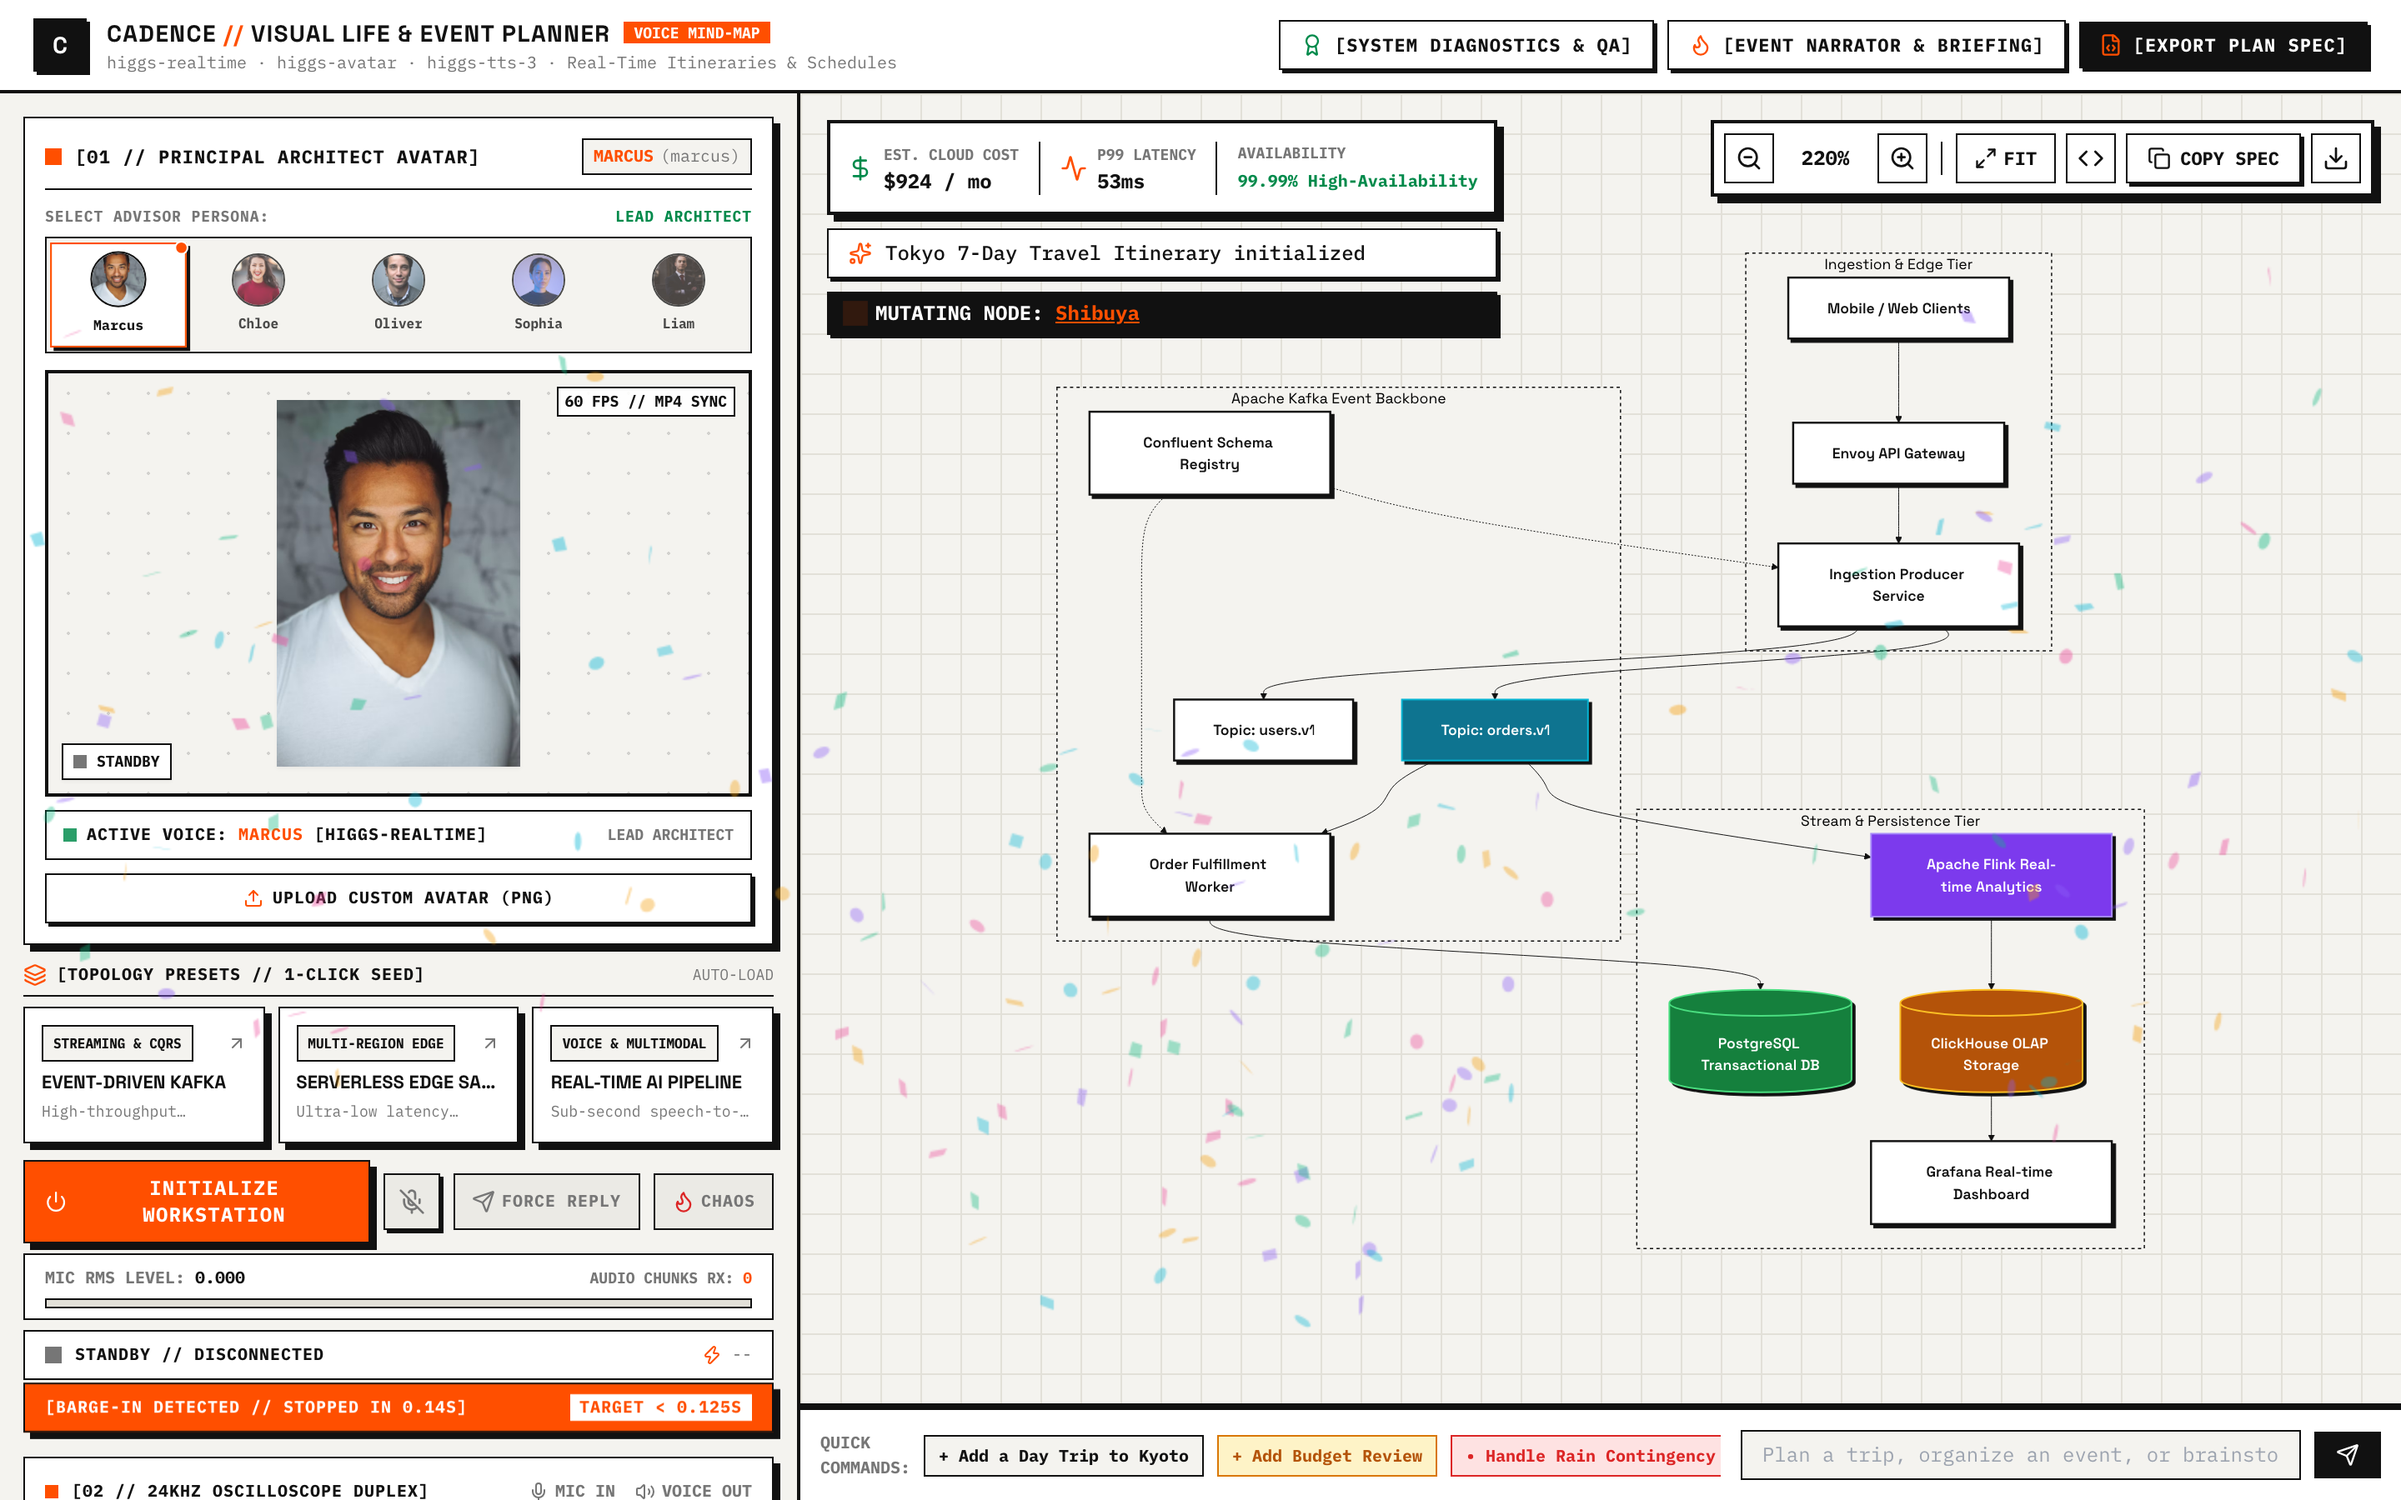
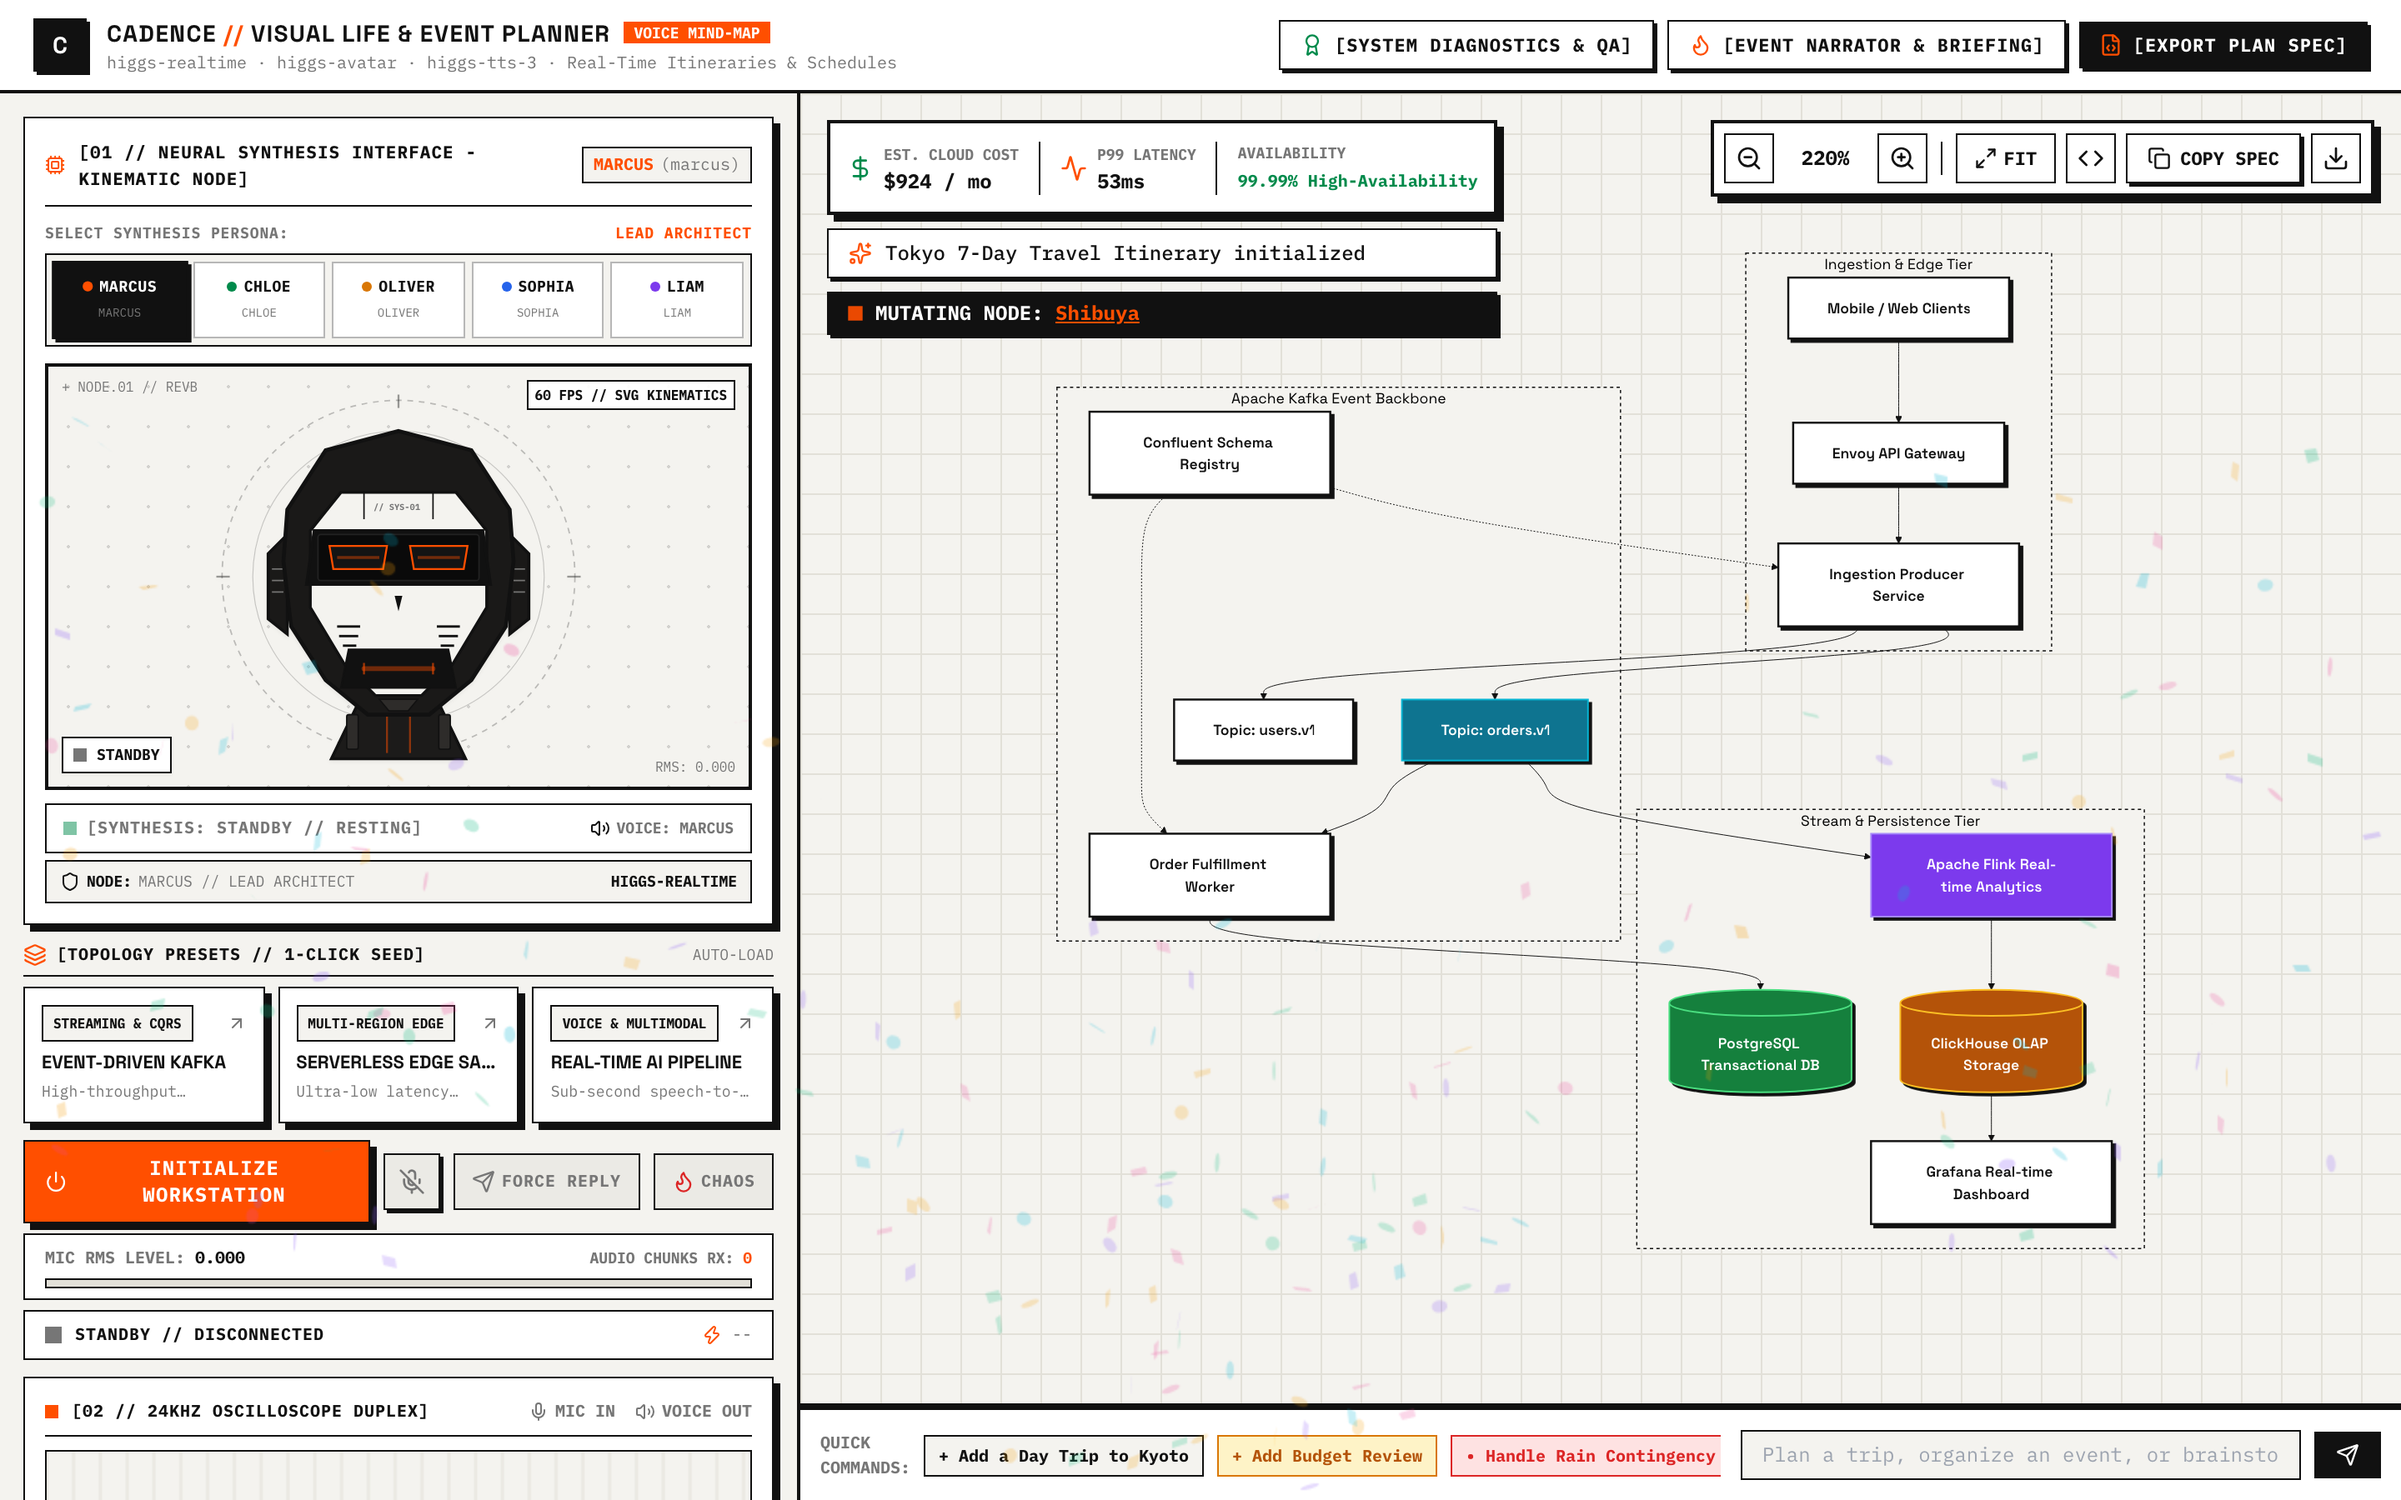
docs: feature live Azure deployment link and refresh retina screenshots with vector cybernetic robot face

diff --git a/README.md b/README.md
@@ -2,16 +2,32 @@
 
 # CADENCE
 ### Autonomous Real-Time Voice Life & Event Planner
+**Full-Duplex 24kHz Audio &bull; Vector Cybernetic Kinematics &bull; Dynamic Vector CAD Mind-Maps**
+
+<br />
+
+<p align="center">
+  <a href="https://cadence-ai.azurewebsites.net" target="_blank">
+    <img src="https://img.shields.io/badge/LIVE%20WORKSTATION-cadence--ai.azurewebsites.net-FF4F00?style=for-the-badge&logo=microsoftazure&logoColor=white" alt="Live Workstation on Azure" height="38" />
+  </a>
+</p>
+
+<p align="center">
+  <strong>🌐 Production Deployment:</strong> <a href="https://cadence-ai.azurewebsites.net">https://cadence-ai.azurewebsites.net</a>
+  &nbsp;&bull;&nbsp;
+  <strong>⚡ Instant Shortlink:</strong> <a href="https://tinyurl.com/2dxcecgo">https://tinyurl.com/2dxcecgo</a>
+</p>
 
 [![Build & Test](https://github.com/PeterYousefi/Cadence/actions/workflows/ci.yml/badge.svg)](https://github.com/PeterYousefi/Cadence/actions)
 [![License: MIT](https://img.shields.io/badge/License-MIT-yellow.svg)](https://opensource.org/licenses/MIT)
 [![TypeScript](https://img.shields.io/badge/TypeScript-5.7-blue.svg)](https://www.typescriptlang.org/)
-[![Node.js](https://img.shields.io/badge/Node.js-%3E%3D18.0.0-green.svg)](https://nodejs.org/)
+[![Node.js](https://img.shields.io/badge/Node.js-%3E%3D20.0.0-green.svg)](https://nodejs.org/)
 [![Audio DSP](https://img.shields.io/badge/Audio%20DSP-24kHz%20PCM16-FF4F00.svg)](#audio-pipeline)
-[![Multi-Model](https://img.shields.io/badge/Boson%20AI-Realtime%20%2B%20Avatar%20%2B%20TTS%203-008A4B.svg)](https://boson.ai)
+[![Multi-Model](https://img.shields.io/badge/Boson%20AI-Realtime%20%2B%20Kinematic%20%2B%20TTS%203-008A4B.svg)](https://boson.ai)
+[![Azure Cloud](https://img.shields.io/badge/Hosted%20on-Azure%20App%20Service%20(Linux)-0078D4.svg)](https://azure.microsoft.com/)
 
 <p align="center">
-  <strong>Cadence</strong> pairs Boson AI's multi-model suite with a reactive, Swiss CAD visual mind-mapping canvas. Speak naturally in any language to plan dream vacations, coordinate weddings, build startup roadmaps, or brainstorm life goals with instant visual timelines and sub-second full-duplex voice.
+  <strong>Cadence</strong> combines Boson AI's real-time multimodal intelligence with a precision Swiss CAD drafting deck. Speak naturally in 100+ languages to plan dream vacations, coordinate weddings, build startup roadmaps, or evaluate life milestones with sub-second full-duplex voice, 0.125s barge-in interruption, dynamic vector mind-maps, and an audio-reactive 60 FPS cybernetic robot face.
 </p>
 
 </div>
@@ -28,12 +44,32 @@
 
 The Cadence workstation is engineered with a **Teenage Engineering × Swiss Industrial Drafting** aesthetic—combining warm alabaster paper tones (`#F4F3EF`), exposed 24px structural blueprint grids (`#E2E0D8`), international signal accents (`#FF4F00` and `#008A4B`), and mechanical tactile controls with physical drop-shadows:
 
-* **Left 35% // Telemetry Rail:** Houses the 5-Avatar Persona Selector (Chloe, Marcus, Oliver, Emma, Liam) with live talking-head video viewport, dual 24kHz mic/speaker oscilloscopes, live numeric microphone RMS meter, 0.125s barge-in timeline beacon, real-time Boson vs. OpenAI unit economics ticker, and the syntax-highlighted live transcript and tool stream.
+* **Left 35% // Telemetry Rail:** Houses the **Neural Synthesis Interface** (Vector Cybernetic Robot Face with real-time kinematic mouth morphing and audio-frequency lip-sync), dual 24kHz mic/speaker oscilloscopes, live numeric microphone RMS meter, 0.125s barge-in timeline beacon, real-time Boson vs. OpenAI unit economics ticker, and the syntax-highlighted live transcript and tool stream.
 * **Right 65% // Visual Mind-Map Canvas:** Full-height, reactive vector CAD viewport pre-calibrated to a **220% default zoom** scale focused on central milestones, rendering vibrant pastel flowchart mind-maps with smooth pan/zoom controls, contingency simulations, and a direct text/voice command bar.
 
 ---
 
-## ⚡ Key Capabilities
+## 🤖 Neural Synthesis Interface — Vector Cybernetic Face
+
+<div align="center">
+  <img src="docs/images/cadence-cybernetic-face.png" alt="Cadence Neural Synthesis Interface - Kinematic Node" width="60%" style="border: 2px solid #111111; box-shadow: 4px 4px 0px #111111;" />
+</div>
+
+<br />
+
+The avatar viewport features an interactive **Vector Cybernetic Robot Face** with hardware-level telemetry:
+- **Chiseled Carbon & Alabaster Geometry:** High-contrast carbon black (`#111111`) chassis with warm alabaster faceplate, acoustic cheek grills, lateral telemetry fins, and hydraulic collar pistons.
+- **Glowing Ocular Visor:** Active audio scanlines and dual ocular frequency equalizer bars that shift colors to match the active persona:
+  - `[MARCUS // ARCHITECT]` — Signal Orange (`#FF4F00`)
+  - `[CHLOE // UX]` — Emerald Green (`#008A4B`)
+  - `[OLIVER // BACKEND]` — Industrial Amber (`#D97706`)
+  - `[SOPHIA // DATA]` — Cobalt Blue (`#2563EB`)
+  - `[LIAM // DEVOPS]` — Deep Violet (`#7C3AED`)
+- **Real-Time Kinematic Lip-Sync:** Connected directly to the browser `AudioContext` analyser node. When Boson AI speaks, the SVG vector mouth dynamically curves and oscillates into speech apertures with internal neon vocal blades that jump in response to live FFT voice frequency bins. Returns smoothly to a resting 2px slit when silent.
+
+---
+
+## ⚡ Core Capabilities
 
 ### 1. Sub-Second Full-Duplex Voice & 0.125s Barge-In
 - **24kHz Signed 16-bit PCM Pipeline:** Bidirectional audio streaming over a direct browser WebSocket into `wss://api.boson.ai/v1/realtime`.
@@ -41,10 +77,10 @@ The Cadence workstation is engineered with a **Teenage Engineering × Swiss Indu
 - **100+ Language Zero-Flag Code-Switching:** Natively switch mid-sentence across English, Mandarin, Spanish, French, Japanese, German, Hindi, and Arabic without session restarts.
 - **Unit Economics Engine:** Live tracking of session audio costs at Boson's pricing ($0.0023/min input, $0.014/min output), delivering an **88–92% cost reduction** compared to legacy realtime speech APIs.
 
-### 2. Conversational Architecture & Mid-Turn Tool Calling
-When analyzing or altering system designs, Cadence calls native tools mid-conversation:
-- `render_architecture`: Generates or patches valid Mermaid.js graph topologies, illuminates active nodes in Signal Orange (`#FF4F00`), and computes capacity metrics.
-- `inject_chaos_failure`: Injects infrastructure partition, latency spikes, or crashes; recalculates downstream blast radius; and styles severed edges in crimson dashed strokes.
+### 2. Conversational Mind-Mapping & Mid-Turn Tool Calling
+When analyzing or altering plans, Cadence calls native tools mid-conversation:
+- `render_mindmap` / `render_architecture`: Generates or patches valid Mermaid.js graph topologies, illuminates active milestones in Signal Orange (`#FF4F00`), and recalibrates the canvas.
+- `inject_chaos_failure`: Injects real-world contingencies (e.g. rain contingency on wedding day, missed flight connection, cache partition) and styles severed edges in dashed crimson strokes.
 - `generate_iac_manifest`: Synthesizes production-ready Terraform HCL and Docker Compose definitions for immediate provisioning.
 
 ---
@@ -56,8 +92,8 @@ Cadence orchestrates three distinct Boson AI models into a unified engineering w
 | Model | Role | Integration Point |
 |---|---|---|
 | **Higgs Realtime** (`higgs-realtime`) | Full-duplex conversational reasoning, STT, and sub-second tool execution | Direct browser WebSocket (`/v1/realtime`) |
-| **Higgs Avatar** (`higgs-avatar`) | Principal Architect talking-head persona with zero-shot custom portrait upload | Streaming video session & 60fps Web Audio lip-sync |
-| **Higgs TTS 3** (`higgs-tts-3`) | Expressive post-mortem narrator with inline emotion and sound effect tags | Synced word-level microsecond teleprompter |
+| **Higgs Kinematics** (`higgs-avatar`) | Neural Synthesis robot interface with 60 FPS Web Audio frequency lip-sync | Reactive SVG kinematic loop & WebAudio analyser |
+| **Higgs TTS 3** (`higgs-tts-3`) | Expressive incident narrator with inline emotion and sound effect tags | Synced word-level microsecond teleprompter |
 
 ```mermaid
 graph TD
@@ -66,11 +102,11 @@ graph TD
     AudioDSP --> BrowserSocket["Browser WebSocket Client"]
     BrowserSocket --> AudioPlayer["Web Audio Gapless Engine"]
     AudioPlayer --> Speakers["Voice Output"]
-    AvatarViewport["Principal Architect Avatar Viewport"]
+    KinematicFace["Neural Synthesis Kinematic Node"]
     CADCanvas["Reactive CAD Blueprint Canvas"]
   end
 
-  subgraph Gateway ["Cadence API Gateway (Express - Port 3001)"]
+  subgraph Gateway ["Cadence API Gateway (Azure App Service - Port 8080/3001)"]
     TokenRoute["POST /api/session"] --> BosonSecrets["Boson client_secrets API"]
     TTSRoute["POST /api/tts-briefing"] --> BosonTTS["Boson /v1/audio/speech API"]
     AvatarRoute["POST /api/avatar-speak"] --> BosonAvatar["Boson /v1/videos API"]
@@ -79,13 +115,13 @@ graph TD
   subgraph BosonCloud ["Boson AI Cloud Engine"]
     BrowserSocket <== "Duplex WebSocket (bai-client-secret)" ==> HiggsRealtime["higgs-realtime (Conversational Core)"]
     HiggsRealtime --> STT["higgs-stt-3.1"]
-    HiggsRealtime --> ToolDispatcher["Tool Dispatcher (render, chaos, iac)"]
+    HiggsRealtime --> ToolDispatcher["Tool Dispatcher (mindmap, chaos, iac)"]
     BosonAvatar --> HiggsAvatarModel["higgs-avatar (Video Stream)"]
     BosonTTS --> HiggsTTS3Model["higgs-tts-3 (Inline Control Tags)"]
   end
 
   ToolDispatcher ==> CADCanvas
-  HiggsAvatarModel -.-> AvatarViewport
+  AudioPlayer -.-> KinematicFace
   HiggsTTS3Model -.-> Client
 
   style HiggsRealtime fill:#FF4F00,stroke:#111111,stroke-width:2px,color:#fff
@@ -128,8 +164,8 @@ Every schematic rendered on the canvas can be exported immediately to production
 │   ├── schema-engine/              # Mermaid AST sanitizer, Terraform generator, Cost/Latency estimator
 │   └── audio-dsp/                  # 24kHz PCM16 codecs, 0.125s VAD timer, unit economics tracker
 ├── apps/
-│   ├── api-gateway/                # Node.js Express server on port 3001 (Token minting & proxy routes)
-│   └── web-workstation/            # React + TypeScript + Tailwind CAD workstation on port 5173
+│   ├── api-gateway/                # Node.js Express server (Token minting & static production serving)
+│   └── web-workstation/            # React + TypeScript + Tailwind CAD workstation
 ├── tests/                          # Automated Vitest integration test suite (8 tests)
 ├── docs/images/                    # High-resolution retina workstation screenshots
 └── scripts/                        # Automation & headless screenshot capture tooling
@@ -139,13 +175,10 @@ Every schematic rendered on the canvas can be exported immediately to production
 
 ## 🚀 Quickstart Guide
 
-### Prerequisites
-- **Node.js** >= 18.0.0
-- **npm** >= 9.0.0
-- **Boson AI API Key** (`bai-...`)
+### Option 1: Live Azure Deployment
+Open **[https://cadence-ai.azurewebsites.net](https://cadence-ai.azurewebsites.net)** or **[https://tinyurl.com/2dxcecgo](https://tinyurl.com/2dxcecgo)** directly in any modern browser.
 
-### Installation & Launch
-
+### Option 2: Local Development
 ```bash
 # 1. Clone repository
 git clone https://github.com/PeterYousefi/Cadence.git
